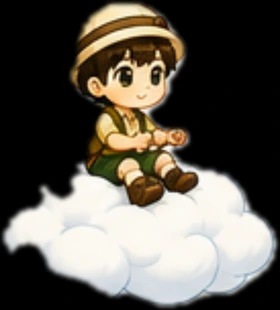
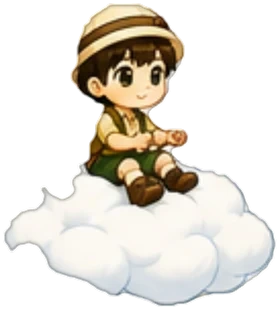
구름 탈것 알파 복구 — 검은 사각형으로 나오던 한 장 (#658)
탑승 원화 64장 중 cloud.webp 한 장만 투명 배경을 잃은 채 들어와 있었다
(2026-08-08 137×153 → 280×310 재제작 때). 하늘섬 챕터에서 구름이 뽑히는 날
하늘 위에 검은 네모가 떠 있었다.

사용자가 보내 준 137×153 판에는 알파가 살아 있어서, 두 판이 같은 그림·같은
구도인 것을 확인한 뒤(평균 차이 2.4/255) 알파만 280으로 올려 이식했다.
검정에 곱해져 있던 색은 알파로 나눠 되살렸다(un-matte). 그림·구도·크기는
그대로라 _RIDE_AR.cloud(0.9)도 손대지 않았다.

· 검정 키잉(flood-fill)도 해 봤지만 그림 자체의 어두운 외곽선까지 먹어
  검은 테가 남아서 버렸다 — 알파 이식이 깨끗했다.
· art-src 는 q92, 배포본은 q88 (CLAUDE.md 5, 같은 이름으로 덮어씀)
· 전수 검사: 이제 ride/ 64장 전부 알파 있음

Claude-Session: https://claude.ai/code/session_018maNuYqDfFyRSe9uKpZhPR

diff --git a/art-src/README.md b/art-src/README.md
@@ -364,7 +364,7 @@ getBoundingClientRect로 재서 정한다. 2026-08-05 점검에서 이 기준을
 | expedition/ride/donkey-src.webp | 탑승 원화 8 당나귀 — 숲·깊은숲·초원 변형 (탈것+앉은 캐릭터 한 장, halo 보정 후 탑재) | expedition/ride/donkey.webp |
 | expedition/ride/dragon-src.webp | 탑승 원화 17 드래곤 v2 남아 (1536×1536 투명 → 잘라 1425×1350, 사용자 원화 2026-08-14). v1과 같은 구도를 수채화 톤으로 다시 그린 판 — 선이 부드러워지고 v1 꼬리에 있던 흰 얼룩(halo)이 없어졌다. 가로세로비 1.07 → 1.05 라 표시 크기는 사실상 그대로다(_RIDE_AR 갱신). 배포본은 높이 160px 로 줄여 v1(171×160)과 같은 크기. **알파에 흐린 티끌이 200개 넘게 섞여 있어** 가장 큰 덩어리만 남겨 지웠다 | expedition/ride/dragon.webp |
 | expedition/ride/dragon-girl-src.webp | 탑승 원화 17 드래곤 v2 여아 (1536×1536 투명 → 잘라 1422×1355, 사용자 원화 2026-08-14). 남아 v2와 같은 그림에 아이만 여아. 처음엔 알파 없는 RGB(체커보드가 그려져 들어온 판)로 받아 체커를 지워 넣었다가, 투명 원본을 다시 받아 그걸로 갈았다. 남아와 같이 티끌 제거 | expedition/ride/dragon-girl.webp |
-| expedition/ride/cloud-src.webp | 탑승 원화 15 구름 남아 — 초원·사막·보물 변형 (하늘 lift 7). **2026-08-08 재제작 137×153 → 280×310** (표시 77×86px의 3.5배 — 실측으로 정한 값). 여아 판도 같은 높이 310으로 다시 뽑아 둘이 같은 해상도다 | expedition/ride/cloud.webp |
+| expedition/ride/cloud-src.webp | 탑승 원화 15 구름 남아 — 초원·사막·보물 변형 (하늘 lift 7). **2026-08-08 재제작 137×153 → 280×310** (표시 77×86px의 3.5배 — 실측으로 정한 값). 여아 판도 같은 높이 310으로 다시 뽑아 둘이 같은 해상도다. **2026-08-26 알파 복구** — 재제작본이 투명 배경을 잃고 검은 사각형으로 나오고 있었다(32종 중 이 한 장만). 137×153 판에 남아 있던 알파를 280으로 올려 이식하고, 검정에 곱해진 색을 알파로 나눠 되살렸다(un-matte). 그림·구도는 그대로 | expedition/ride/cloud.webp |
 | expedition/ride/eagle-src.webp | 탑승 원화 13 독수리 — 바위산·사막 변형 (하늘 lift 8) (탈것+앉은 캐릭터 한 장, halo 보정 후 탑재) | expedition/ride/eagle.webp |
 | expedition/ride/crystal-src.webp | 탑승 원화 23 수정 슬라이드 — 동굴 변형 (탈것+앉은 캐릭터 한 장, halo 보정 후 탑재) | expedition/ride/crystal.webp |
 | expedition/ride/owl-src.webp | 탑승 원화 24 큰 부엉이 — 깊은숲 변형 (하늘 lift 7) (탈것+앉은 캐릭터 한 장, halo 보정 후 탑재) | expedition/ride/owl.webp |
